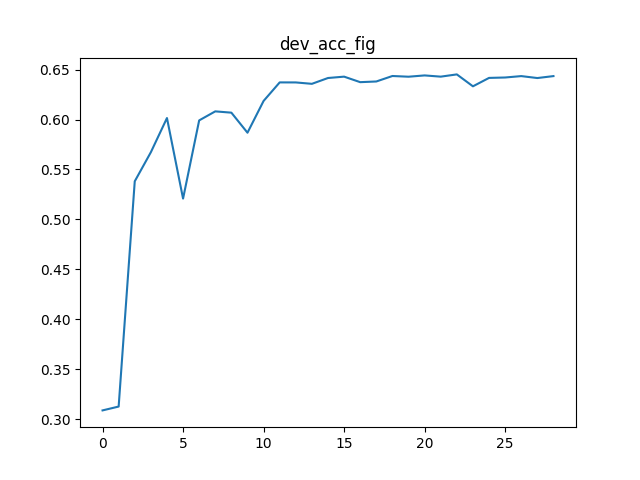
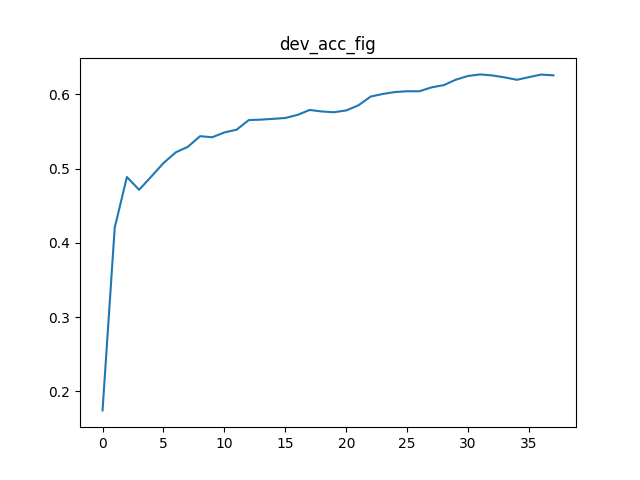
58

diff --git a/Text-Classify-based-pytorch-master/train_partial.py b/Text-Classify-based-pytorch-master/train_partial.py
@@ -193,6 +193,6 @@ print_model(model)
 
 
 if __name__ == '__main__':
-    for s in [0.9]:
+    for s in [0.99]:
         train_model(train_iter, val_iter, model, name, device,step,s,theta)
     test_model(test_iter, name, device)

diff --git a/Text-Classify-based-pytorch-master/figures/figure_analysis.py b/Text-Classify-based-pytorch-master/figures/figure_analysis.py
@@ -3,6 +3,7 @@ import matplotlib.pyplot as plt
 test_acc = []
 s_list = [0.1,0.2,0.3,0.4,0.5,0.6,0.7,0.8]
 
+
 for s in s_list:
     result_path = f'./s={s}_theta=0.1/results.txt'
     with open(result_path,'r') as file:
